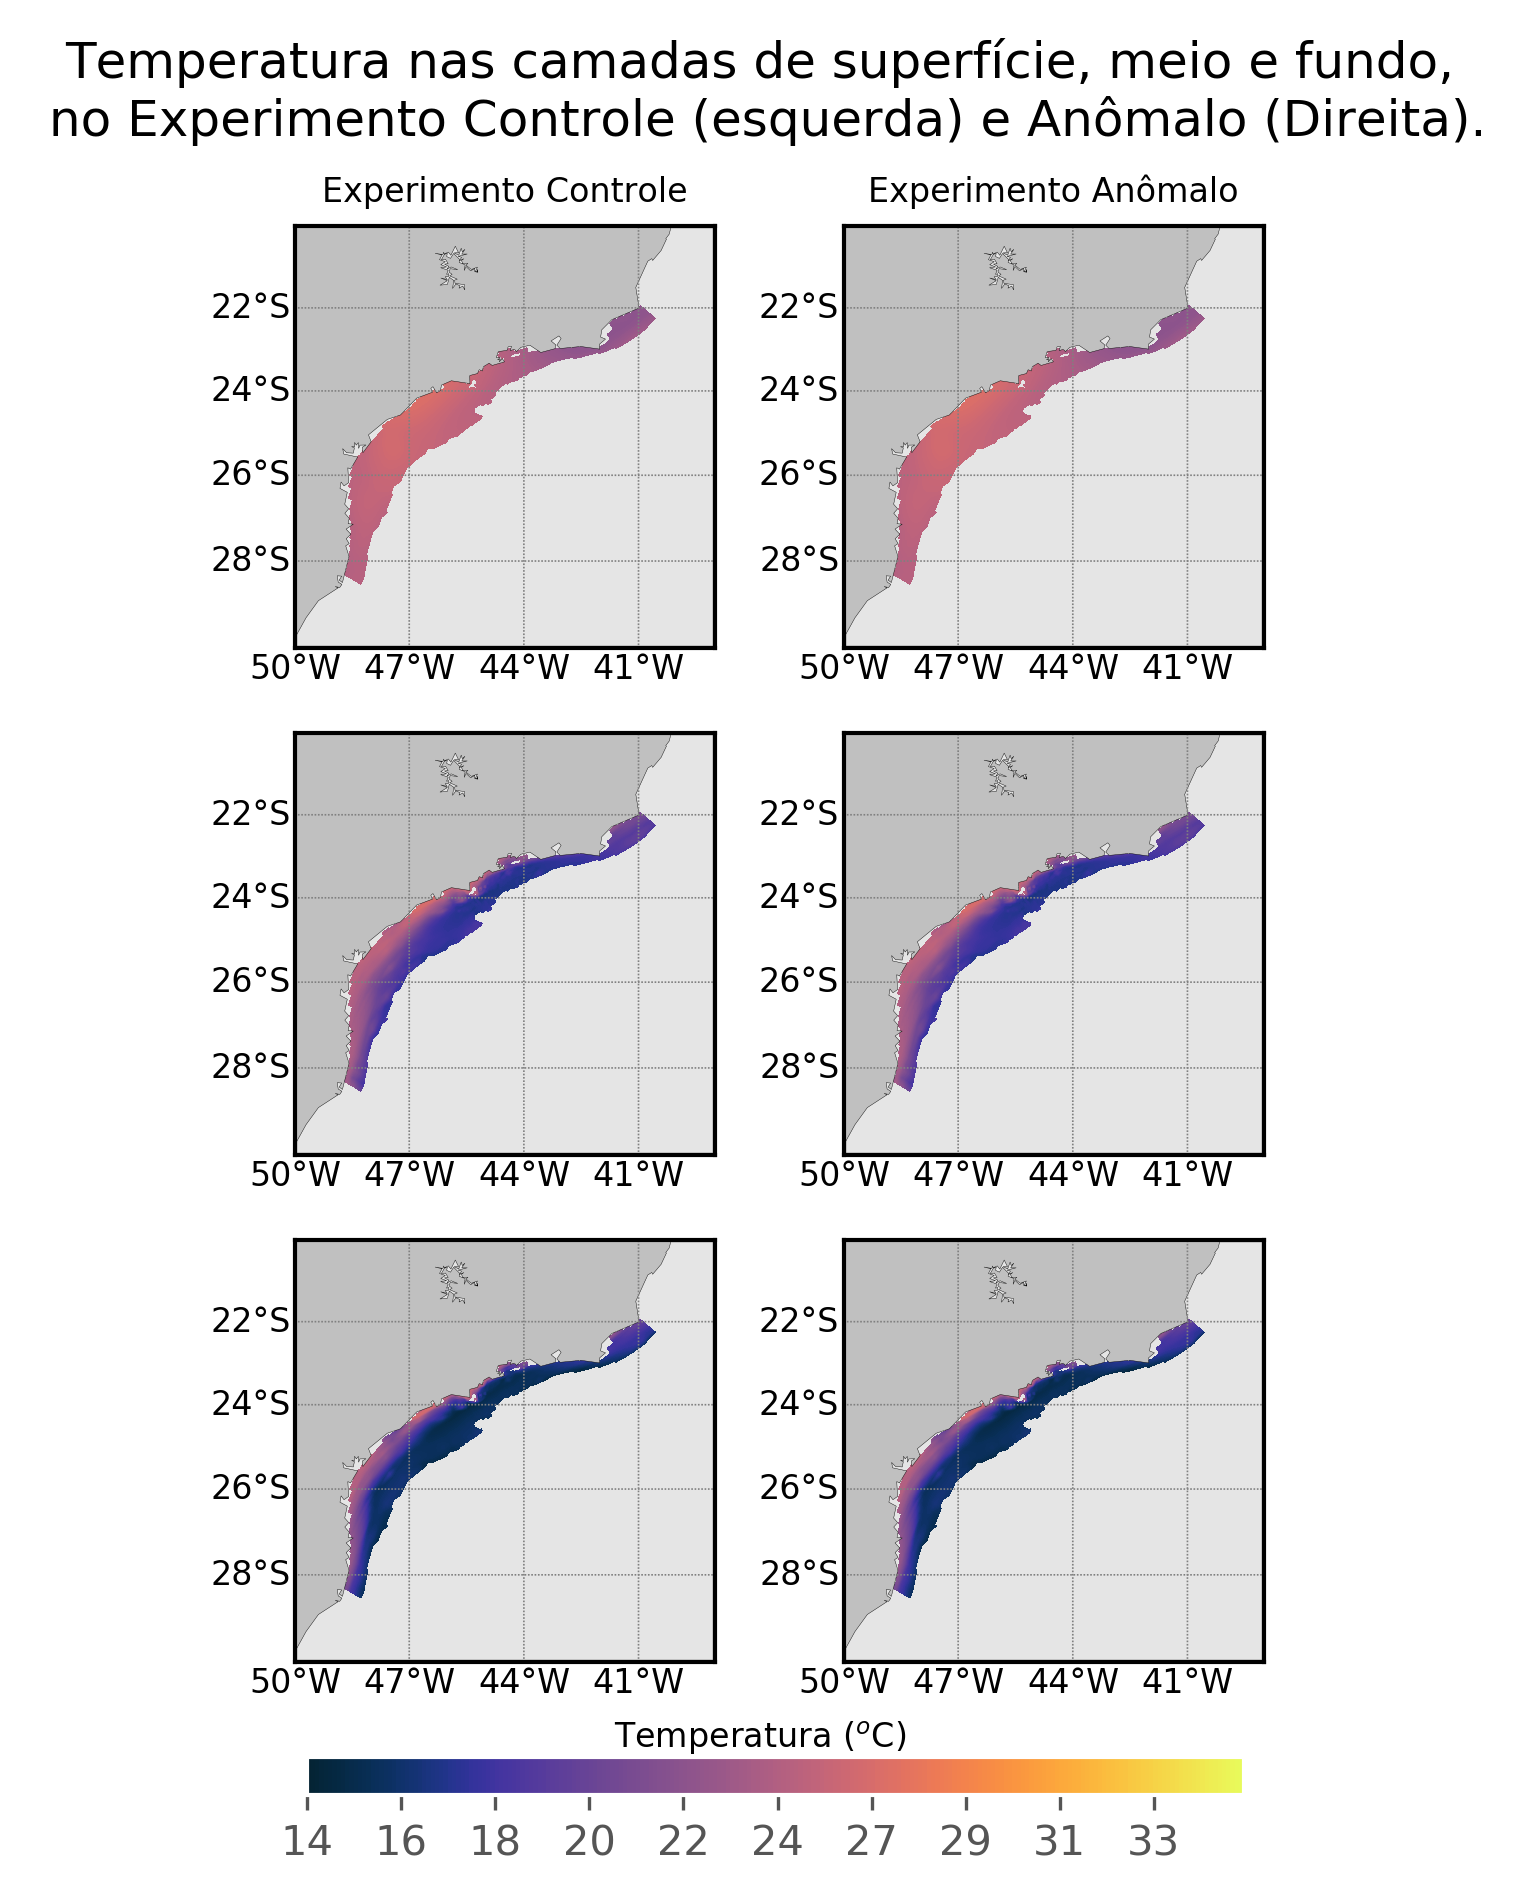
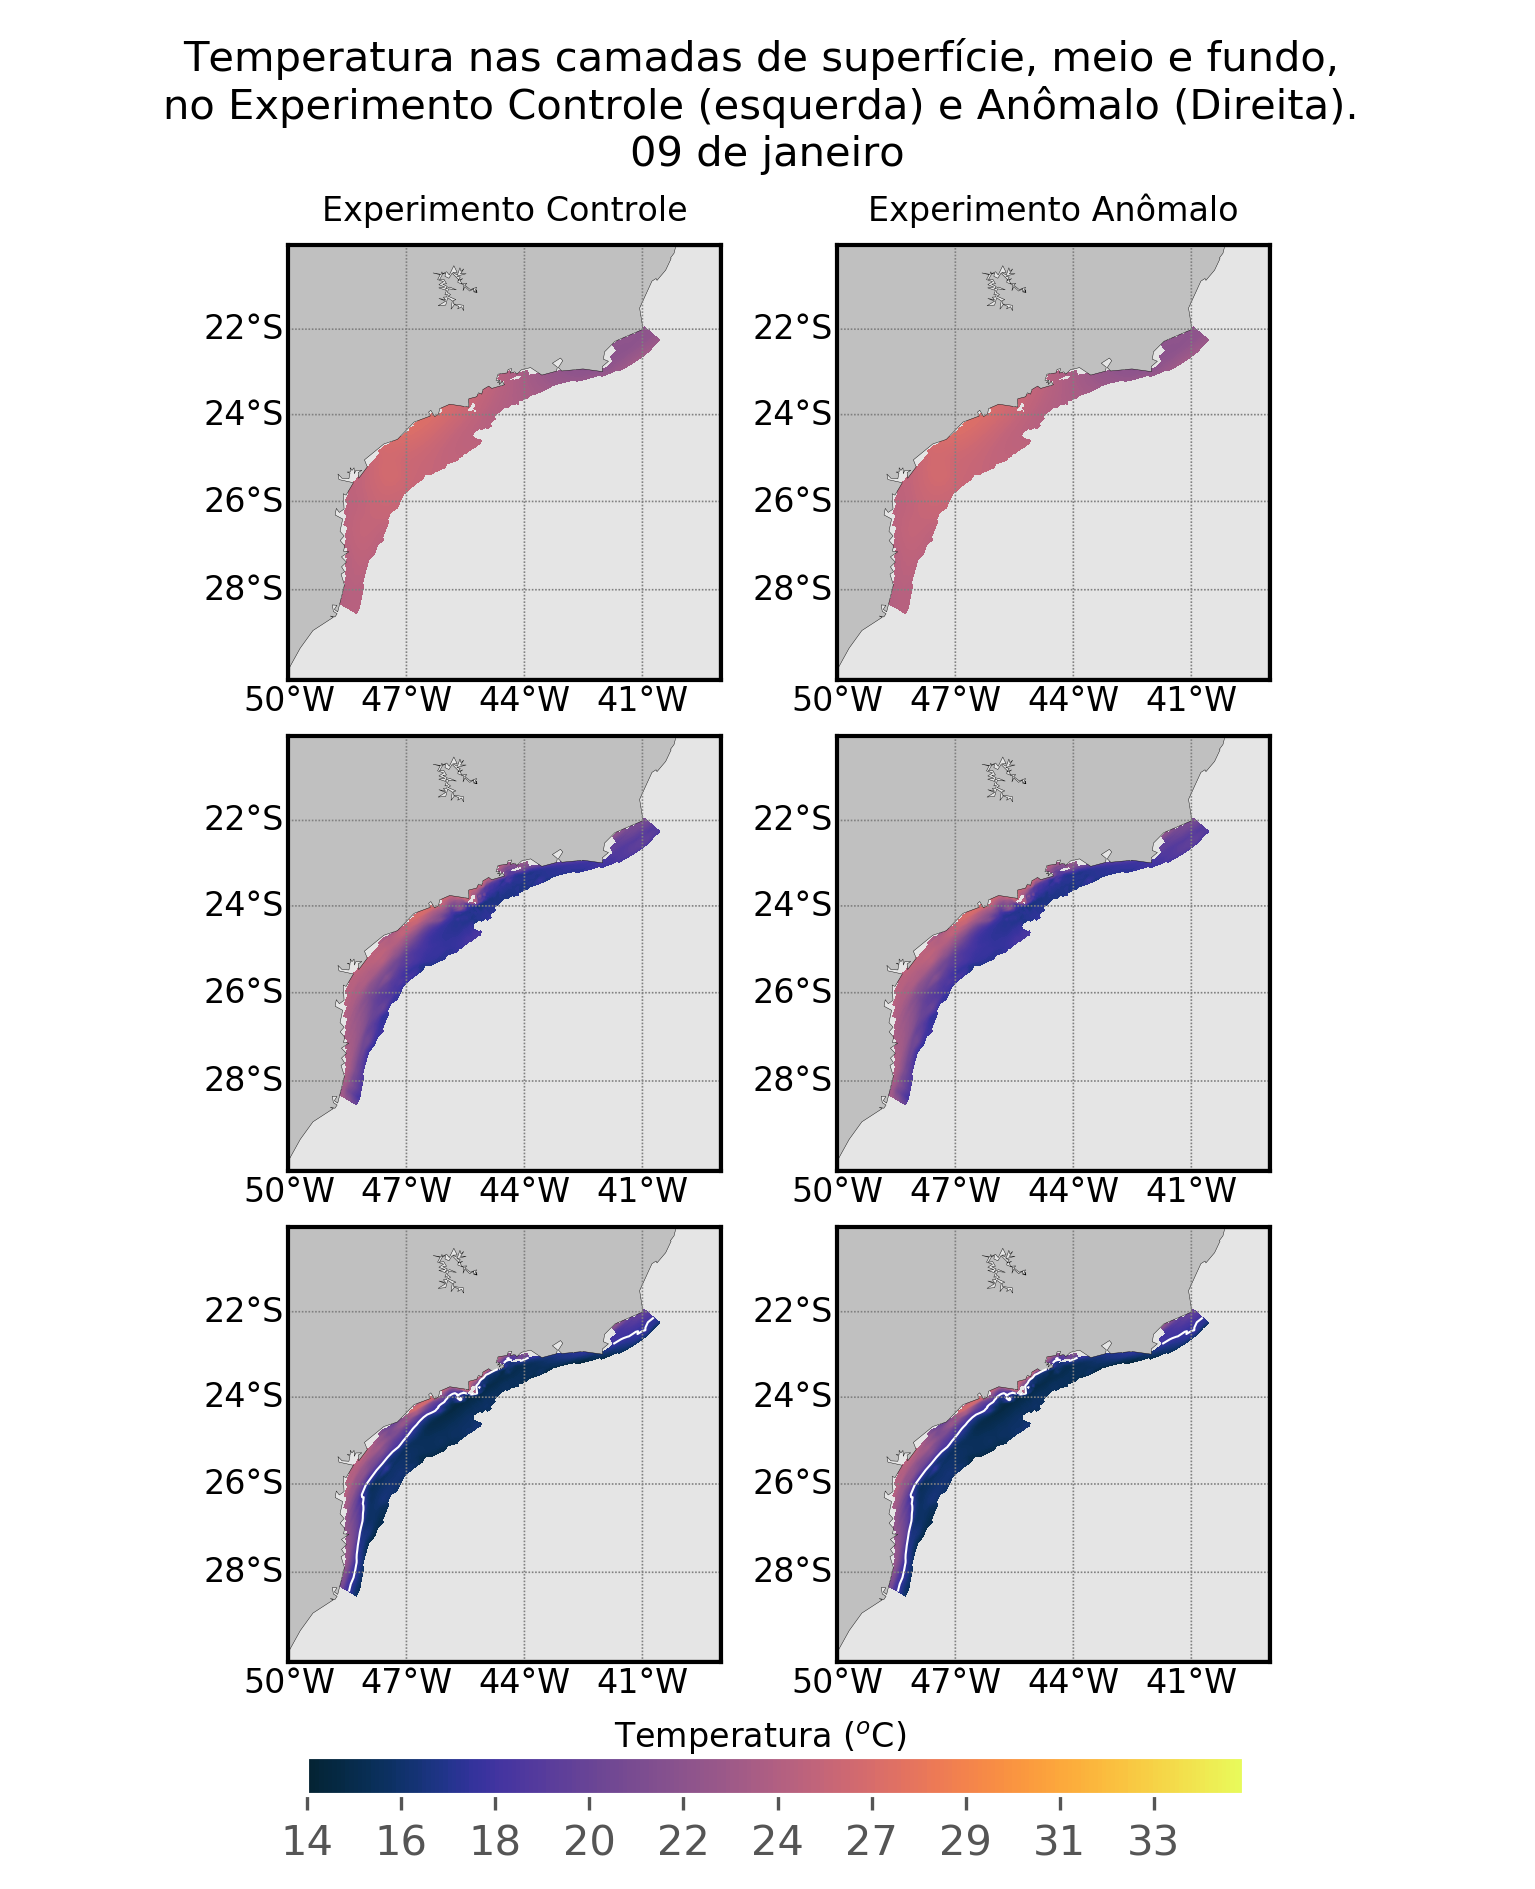
inserting isohaline and isotherm lines on horizontal fields

Changed region(s): [[0.0306, 0.0, 0.9492, 0.9058], [0.398, 0.8745, 0.4593, 0.9058]]

diff --git a/masterThesis_analysis/routines/temperatura_salinidade/campoSalinidade_comparacao.py b/masterThesis_analysis/routines/temperatura_salinidade/campoSalinidade_comparacao.py
@@ -88,6 +88,8 @@ def create_Structure(fname,timestep=0,savefig=False):
     for key,k in zip(col1,sigmaLevels):
         a = m[key]
         cf = a.contourf(lon,lat,salt[k,:,:],contours,latlon=True,cmap=cmo.cm.haline)
+        if k == 0:
+            cs = a.contour(lon,lat,salt[k,:,:],levels=[36.],latlon=True,colors=('black'),linewidths=(0.5))
 
     # plotting anomalous experiment at the final
     ncin = xr.open_dataset(fname.replace('EC1','EA1'))
@@ -98,6 +100,8 @@ def create_Structure(fname,timestep=0,savefig=False):
     for key,k in zip(col1,sigmaLevels):
         a = m[key]
         cf = a.contourf(lon,lat,salt[k,:,:],contours,latlon=True,cmap=cmo.cm.haline)
+        if k == 0:
+            cs = a.contour(lon,lat,salt[k,:,:],levels=[36.],latlon=True,colors=('black'),linewidths=(0.5))
 
     axes[0,0].set_title('Experimento Controle',fontsize=8)
     axes[0,1].set_title(u'Experimento Anômalo',fontsize=8)
@@ -144,4 +148,4 @@ fname = experiment
 
 timestep = input('Type which timestep to plot: ')
 
-fig,axes = create_Structure(fname,timestep=int(timestep),savefig=True)
+fig,axes = create_Structure(fname,timestep=int(timestep),savefig=False)

diff --git a/masterThesis_analysis/routines/temperatura_salinidade/campoTemperatura_comparacao.py b/masterThesis_analysis/routines/temperatura_salinidade/campoTemperatura_comparacao.py
@@ -88,7 +88,8 @@ def create_Structure(fname,timestep=0,savefig=False):
     for key,k in zip(col1,sigmaLevels):
         a = m[key]
         cf = a.contourf(lon,lat,temp[k,:,:],contours,latlon=True,cmap=cmo.cm.thermal)
-        cs = a.contour(lon,lat,temp[k,:,:],levels=[18.],latlon=True,colors=('white'),linewidths=(.5))
+        if k == 20:
+            cs = a.contour(lon,lat,temp[k,:,:],levels=[18.],latlon=True,colors=('white'),linewidths=(.5))
 
     # plotting anomalous experiment at the final
     ncin = xr.open_dataset(fname.replace('EC1','EA1'))
@@ -99,7 +100,8 @@ def create_Structure(fname,timestep=0,savefig=False):
     for key,k in zip(col1,sigmaLevels):
         a = m[key]
         cf = a.contourf(lon,lat,temp[k,:,:],contours,latlon=True,cmap=cmo.cm.thermal)
-        cs = a.contour(lon,lat,temp[k,:,:],levels=[18.],latlon=True,colors=('white'),linewidths=(.5))
+        if k == 20:
+            cs = a.contour(lon,lat,temp[k,:,:],levels=[18.],latlon=True,colors=('white'),linewidths=(.5))
 
     axes[0,0].set_title('Experimento Controle',fontsize=8)
     axes[0,1].set_title(u'Experimento Anômalo',fontsize=8)
